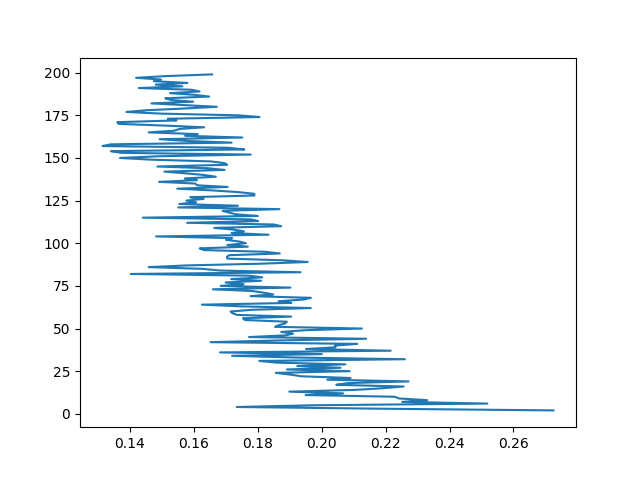
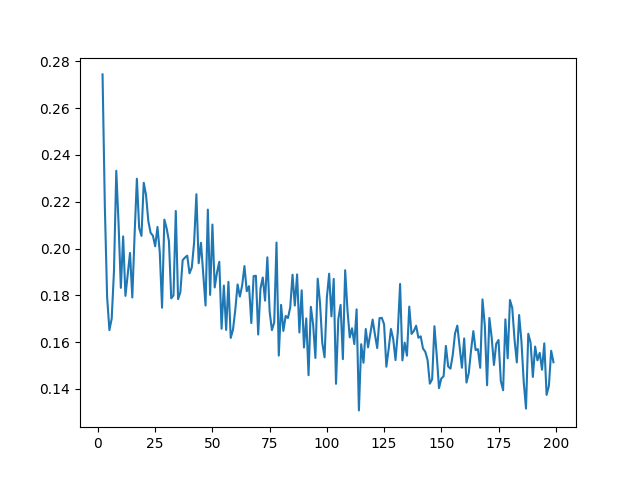
added wang and other necessities

diff --git a/task_3.py b/task_3.py
@@ -1,3 +1,4 @@
+import random
 import k_means
 from sklearn import metrics
 import matplotlib.pyplot as plt
@@ -6,9 +7,35 @@ attributes, list_of_data = k_means.read_csv('mean_data.csv')
 k_means.normalize_data(list_of_data)
 tot_variance = []
 Sill_Sc = []
+wang_sc = []
 K_range = []
 
-for k in range(2, 200):
+def wang_cross_validation(k, c, full_data: list):
+	dearr = 0
+	for _ in range(c):
+		ps_data = full_data.copy()
+		random.shuffle(ps_data)
+		m = int((3/8)*len(full_data))
+		s1 = ps_data[:m]
+		s2 = ps_data[m:2*m]
+		s3 = ps_data[2*m:]
+		cluster_s1 = k_means.k_means(k_means.random_centers(k, s1), s1)
+		cluster_s2 = k_means.k_means(k_means.random_centers(k, s2), s2)
+		clust_s3_s1, pred_s1 = k_means.get_clusters_and_preds_for_test(s3, cluster_s1)
+		clust_s3_s2, pred_s2 = k_means.get_clusters_and_preds_for_test(s3, cluster_s2)
+		for it_1 in range(len(s3)):
+			for it_2 in range(len(s3)):
+				dearr += ((clust_s3_s1[it_1] == clust_s3_s2[it_1]) != (clust_s3_s1[it_2] == clust_s3_s2[it_2]))
+	dearr /= (2*c)
+	return dearr
+
+def plot_metric(x, y, name):
+	plt.plot(x, y)
+	plt.savefig(name+".png")
+	print("generated",name+".png")
+	plt.close()
+
+for k in range(2, 100):
 	print("K =",k,"done")
 	init_centers = k_means.random_centers(k, list_of_data)
 	clusters = k_means.k_means(init_centers, list_of_data)
@@ -21,16 +48,11 @@ for k in range(2, 200):
 
 	y_pred = k_means.get_predictions_for_clusters(clusters)
 
-	# metrics without ground truth
 	tot_variance.append(k_means.get_total_variance(clusters))
 	Sill_Sc.append(metrics.silhouette_score(X, y_pred))
+	wang_sc.append(wang_cross_validation(k, 20, list_of_data))
 	K_range.append(k)
 
-plt.plot(K_range, tot_variance)
-plt.savefig("tot_variance_vs_k.png")
-print("generated tot_variance_vs_k.png")
-plt.close()
-plt.plot(K_range, Sill_Sc)
-plt.savefig("Sillhouette_Score_vs_k.png")
-print("generated Sillhouette_Score_vs_k.png")
-plt.close()
+plot_metric(K_range, wang_sc, "wang_method")
+plot_metric(K_range, Sill_Sc, "Sill_Sc")
+plot_metric(K_range, tot_variance, "tot_variance")

diff --git a/task_4.py b/task_4.py
@@ -45,7 +45,7 @@ def evaluate_k_means_with_k_centers(full_data, centers_ind: set)->dict:
 				train_data.append(list_of_data[i])
 
 		clusters = k_means.k_means(init_centers, train_data)
-		y_pred = k_means.get_predictions_for_test(test_data, clusters)
+		clust_test_ind, y_pred = k_means.get_clusters_and_preds_for_test(test_data, clusters)
 		y_label = [test_data[i][-1] for i in range(test_size)]
 
 		NMI_sc += metrics.normalized_mutual_info_score(y_label, y_pred)
@@ -71,7 +71,7 @@ def evaluate_init(k: int, full_data: list, method, method_name)->None:
 
 	for i in range(3):
 		ax.plot(metrics[i], color=colors[i])
-	print("\nWith", method + ", the variance of metrics were:")
+	print("\nWith", method_name + ", the variance of metrics were:")
 	print("The variance of NMI:", get_variance(metrics[0]))
 	print("The variance of ARI:", get_variance(metrics[1]))
 	print("The variance of Homogeneity:", get_variance(metrics[2]))

diff --git a/k_means.py b/k_means.py
@@ -129,11 +129,13 @@ def get_predictions_for_clusters(clusters: list):
 		y_pred.extend([pred for _ in range(ps_siz)])
 	return y_pred
 
-def get_predictions_for_test(test_data: list, clusters: list):
+def get_clusters_and_preds_for_test(test_data: list, clusters: list)->tuple:
 	y_pred = []
 	centers = get_centers(clusters)
 	predictions_for_clusters = [get_pred_for_cluster(clusters[i]) for i in range(len(clusters))]
+	clusters_test_ind = []
 	for data in test_data:
 		clust_ind = closest_centre(centers, data)
 		y_pred.append(predictions_for_clusters[clust_ind])
-	return y_pred
+		clusters_test_ind.append(clust_ind)
+	return (clusters_test_ind, y_pred)
